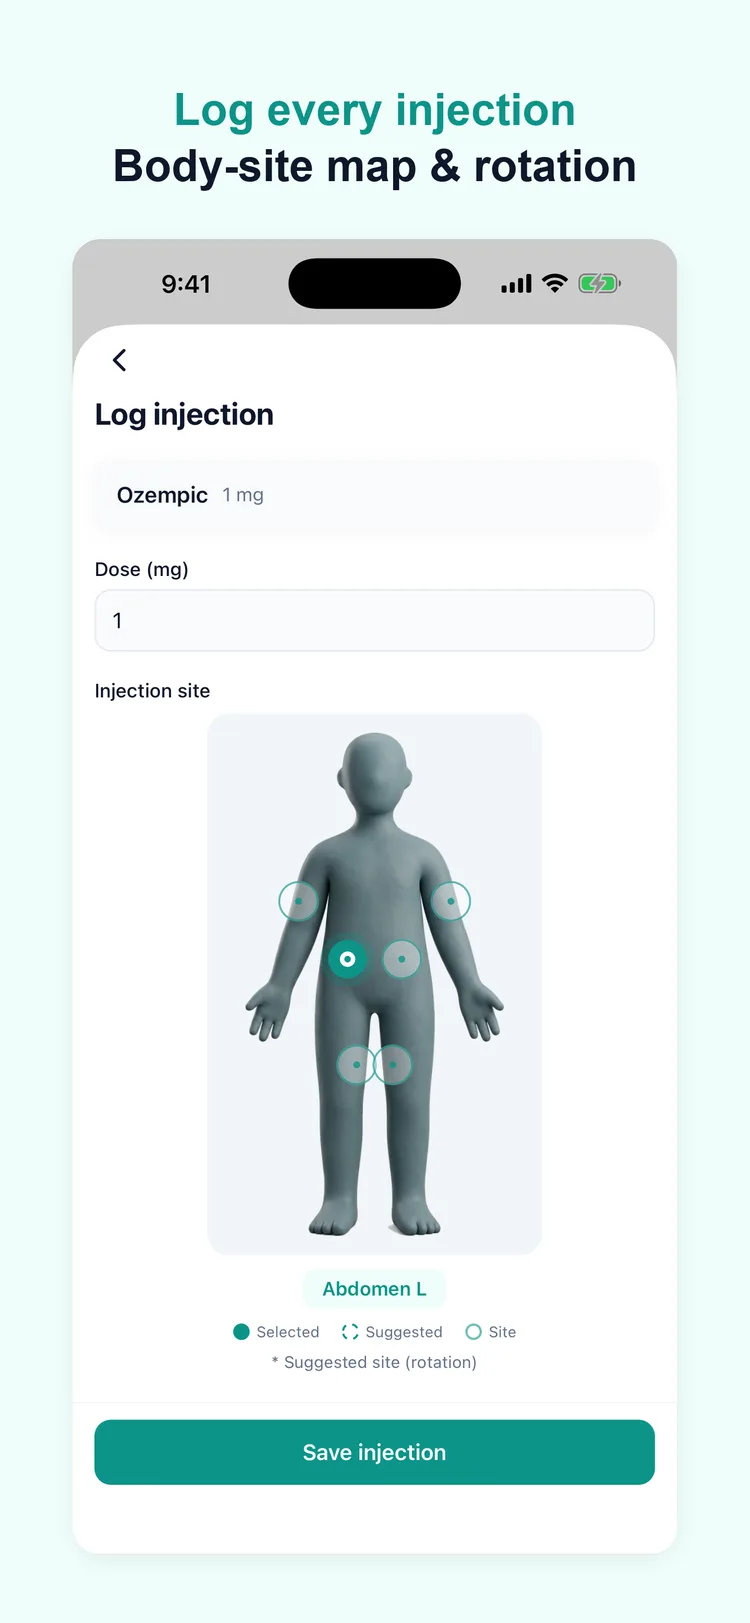
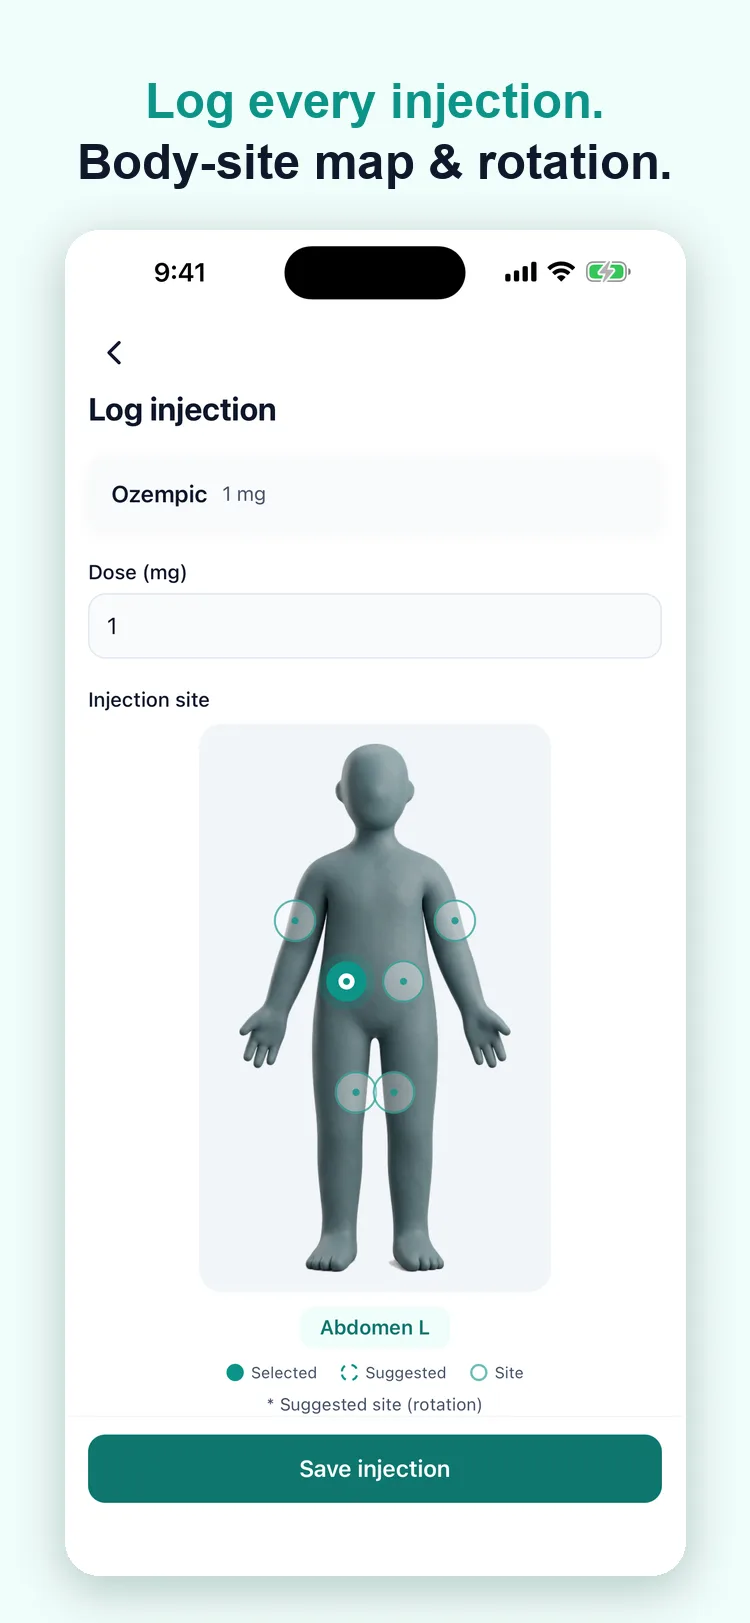
Refresh homepage screenshots for 1.0.8 (goal card, forecast, water)
New per-locale gallery images (EN + TR) showing the current app: goal
progress on Home, body-site injection map, weight/med-level charts,
side-effect forecast, and glass-calculator water tracking.

diff --git a/index.html b/index.html
@@ -124,17 +124,17 @@
         <p class="section-lede" data-lang="tr">Telefonunuzda göreceklerinize hızlı bir bakış.</p>
 
         <div class="screenshot-strip">
-          <img data-lang="en" src="screenshots/en/01-privacy.webp" width="750" height="1623" loading="lazy" alt="Dozify home screen — 100% private, no account, works offline">
+          <img data-lang="en" src="screenshots/en/01-home.webp" width="750" height="1623" loading="lazy" alt="Dozify home screen — 100% private, no account, works offline, with weight-goal tracking">
           <img data-lang="en" src="screenshots/en/02-injection.webp" width="750" height="1623" loading="lazy" alt="Logging an injection with a body-site map and rotation">
-          <img data-lang="en" src="screenshots/en/03-history.webp" width="750" height="1623" loading="lazy" alt="Dose and titration schedule, on time every week">
-          <img data-lang="en" src="screenshots/en/04-insights.webp" width="750" height="1623" loading="lazy" alt="Weight trend chart with smart insights">
-          <img data-lang="en" src="screenshots/en/05-premium.webp" width="750" height="1623" loading="lazy" alt="Doctor-ready PDF report and full tracking with Premium">
+          <img data-lang="en" src="screenshots/en/03-charts.webp" width="750" height="1623" loading="lazy" alt="Weight trend and estimated medication-level curve charts">
+          <img data-lang="en" src="screenshots/en/04-forecast.webp" width="750" height="1623" loading="lazy" alt="Side-effect forecast — patterns from your own logs">
+          <img data-lang="en" src="screenshots/en/05-water.webp" width="750" height="1623" loading="lazy" alt="Smart water tracking with a glass calculator">
 
-          <img data-lang="tr" src="screenshots/tr/01-gizlilik.webp" width="750" height="1623" loading="lazy" alt="Dozify ana ekranı — %100 özel, hesap yok, çevrimdışı çalışır">
-          <img data-lang="tr" src="screenshots/tr/02-enjeksiyon.webp" width="750" height="1623" loading="lazy" alt="Vücut bölge haritası ile enjeksiyon kaydetme">
-          <img data-lang="tr" src="screenshots/tr/03-gecmis.webp" width="750" height="1623" loading="lazy" alt="Doz ve titrasyon programı, her hafta zamanında">
-          <img data-lang="tr" src="screenshots/tr/04-analizler.webp" width="750" height="1623" loading="lazy" alt="Akıllı içgörülerle kilo trendi grafiği">
-          <img data-lang="tr" src="screenshots/tr/05-premium.webp" width="750" height="1623" loading="lazy" alt="Premium ile doktora hazır PDF rapor ve tam takip">
+          <img data-lang="tr" src="screenshots/tr/01-home.webp" width="750" height="1623" loading="lazy" alt="Dozify ana ekranı — %100 özel, hesap yok, çevrimdışı, hedef takibiyle">
+          <img data-lang="tr" src="screenshots/tr/02-injection.webp" width="750" height="1623" loading="lazy" alt="Vücut bölge haritası ile enjeksiyon kaydetme">
+          <img data-lang="tr" src="screenshots/tr/03-charts.webp" width="750" height="1623" loading="lazy" alt="Kilo trendi ve tahmini ilaç seviye eğrisi grafikleri">
+          <img data-lang="tr" src="screenshots/tr/04-forecast.webp" width="750" height="1623" loading="lazy" alt="Yan etki tahmini — kendi kayıtlarından örüntüler">
+          <img data-lang="tr" src="screenshots/tr/05-water.webp" width="750" height="1623" loading="lazy" alt="Bardak hesaplayıcıyla akıllı su takibi">
         </div>
       </div>
     </section>
